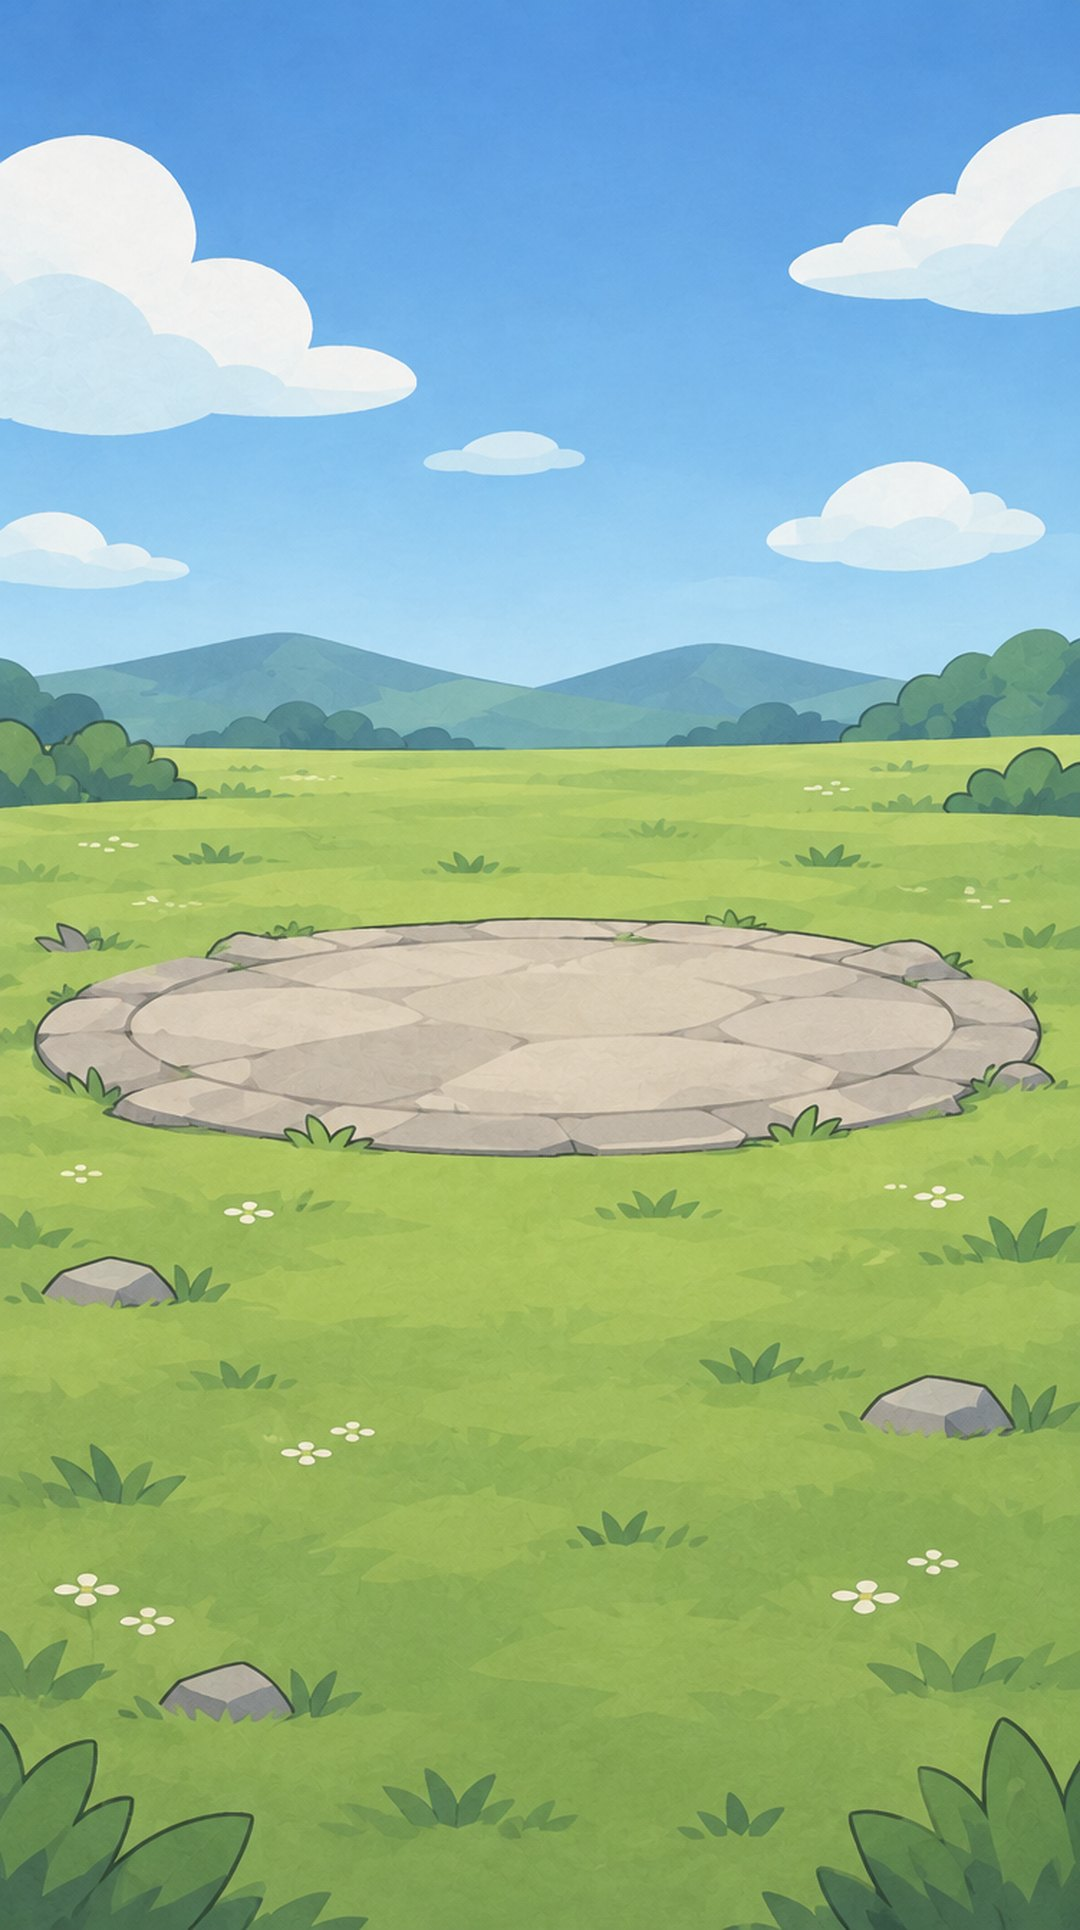
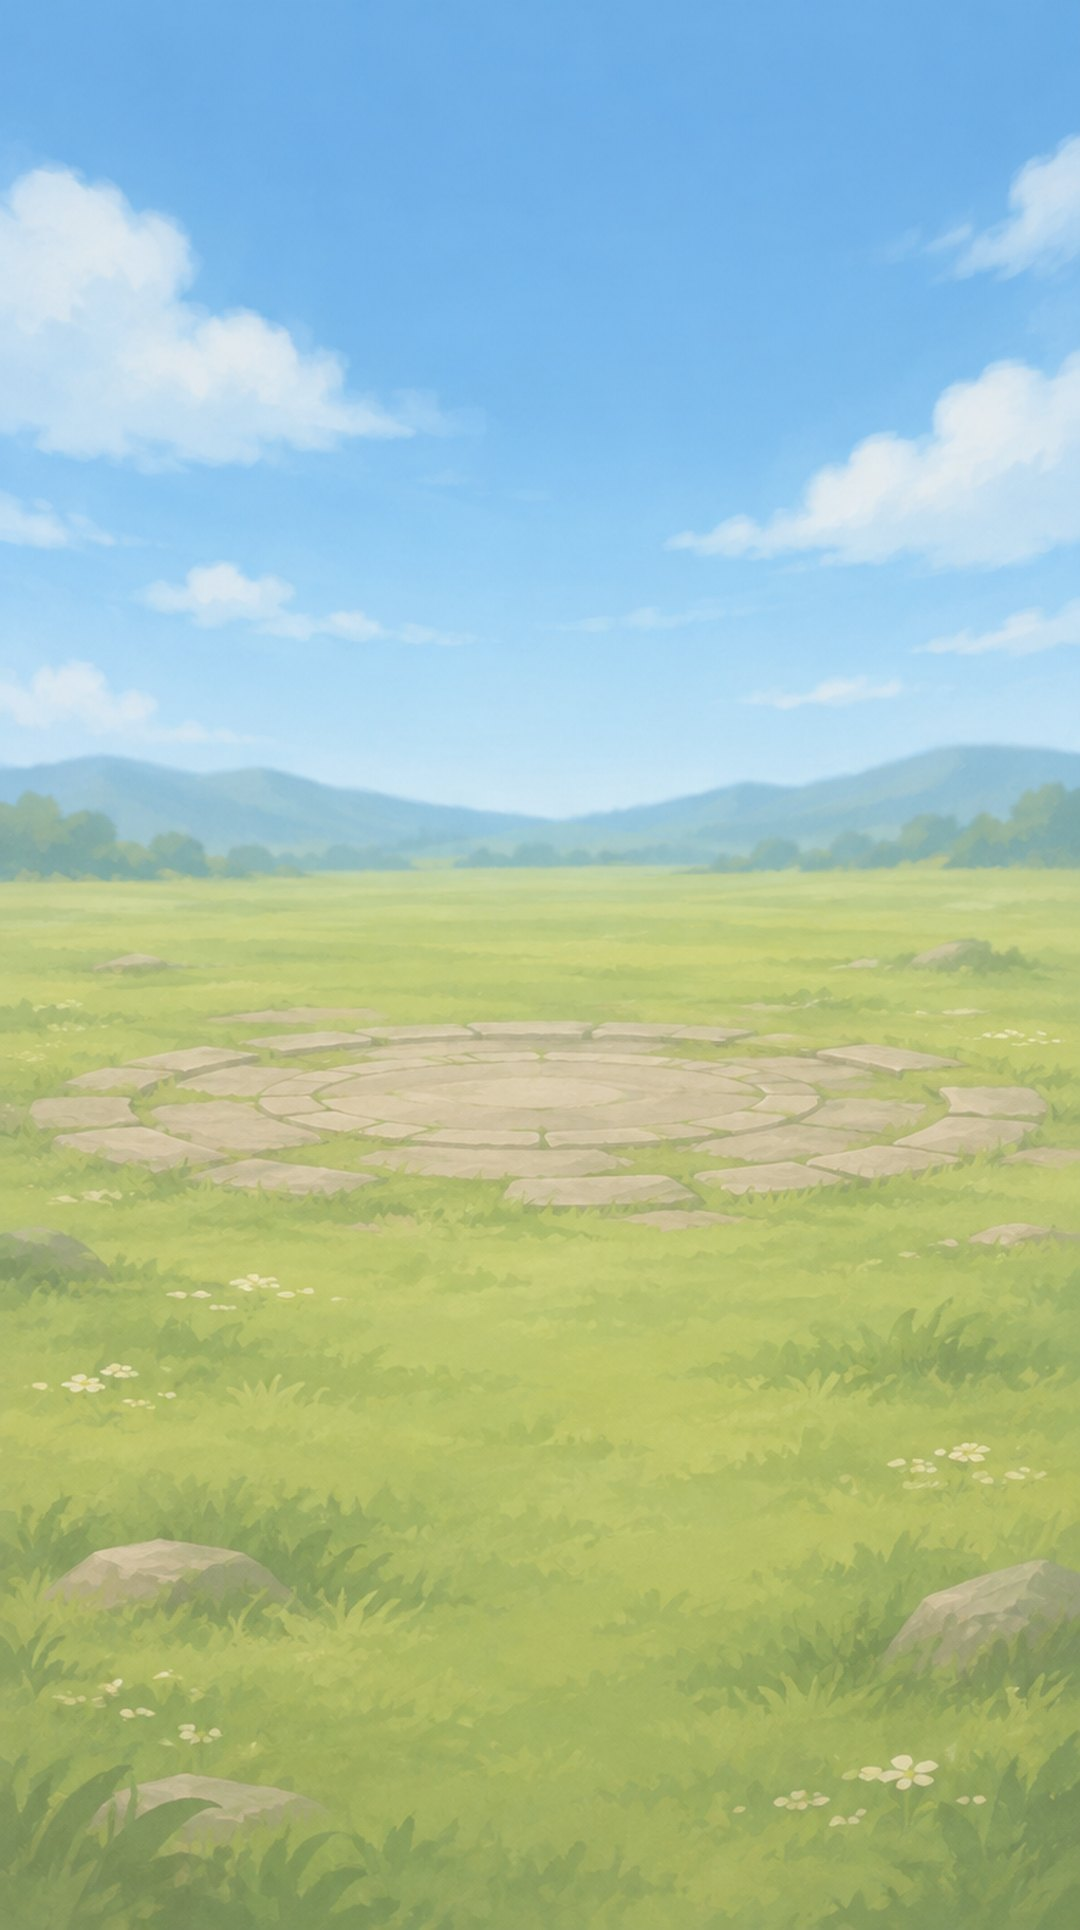
배경을 윤곽선 없는 부드러운 셀 채색으로 교체(경기장·로비·던전). 소환수 윤곽선만 남아 그림과 배경이 분리돼 보이지 않게

diff --git a/battle.html b/battle.html
@@ -15,9 +15,9 @@ button{font-family:inherit;cursor:pointer}
 #fight{z-index:10}
 .scene{position:absolute;inset:0;background-size:cover;background-position:center bottom}
 .hidden{display:none!important}
-.bg-lobby{background-image:url(img/bg/lobby.jpg?v=3)}
-.bg-arena{background-image:url(img/bg/arena.jpg?v=3)}
-.bg-dungeon{background-image:url(img/bg/dungeon.jpg?v=3)}
+.bg-lobby{background-image:url(img/bg/lobby.jpg?v=4)}
+.bg-arena{background-image:url(img/bg/arena.jpg?v=4)}
+.bg-dungeon{background-image:url(img/bg/dungeon.jpg?v=4)}
 .scene::before{content:"";position:absolute;inset:0;background:linear-gradient(180deg,rgba(0,0,0,.25),transparent 30%,transparent 70%,rgba(0,0,0,.45))}
 /* 공통 버튼 */
 .gb{position:relative;border:2px solid #5a3b10;border-radius:12px;background:linear-gradient(180deg,#ffd978,#e0a030 55%,#c47f16);color:#3a2000;font-weight:900;text-shadow:0 1px 0 rgba(255,255,255,.4);box-shadow:0 3px 0 #6b4512,0 6px 14px rgba(0,0,0,.45);padding:12px 18px;font-size:17px;letter-spacing:-.3px}
@@ -458,9 +458,9 @@ html,body{background:#dcecf7}
 body{font-family:"Apple SD Gothic Neo","Pretendard","Noto Sans KR",system-ui,sans-serif;color:var(--ink);-webkit-font-smoothing:antialiased;font-weight:800}
 .scene{background-size:cover;background-position:center bottom}
 .scene::before{background:none}
-.bg-lobby{background-image:url(img/bg/lobby.jpg?v=3)!important}
-.bg-arena{background-image:url(img/bg/arena.jpg?v=3)!important}
-.bg-dungeon{background-image:url(img/bg/dungeon.jpg?v=3)!important}
+.bg-lobby{background-image:url(img/bg/lobby.jpg?v=4)!important}
+.bg-arena{background-image:url(img/bg/arena.jpg?v=4)!important}
+.bg-dungeon{background-image:url(img/bg/dungeon.jpg?v=4)!important}
 /* 공통 부품 */
 .cel{background:var(--cream);border:2.5px solid var(--line);border-radius:12px;box-shadow:0 3px 0 var(--band);color:var(--ink)}
 .cel-btn{background:linear-gradient(180deg,#fff 0,#fff 55%,var(--cream2) 55%);border:2.5px solid var(--line);border-radius:12px;box-shadow:0 3px 0 var(--line);color:var(--ink);font-weight:900}
